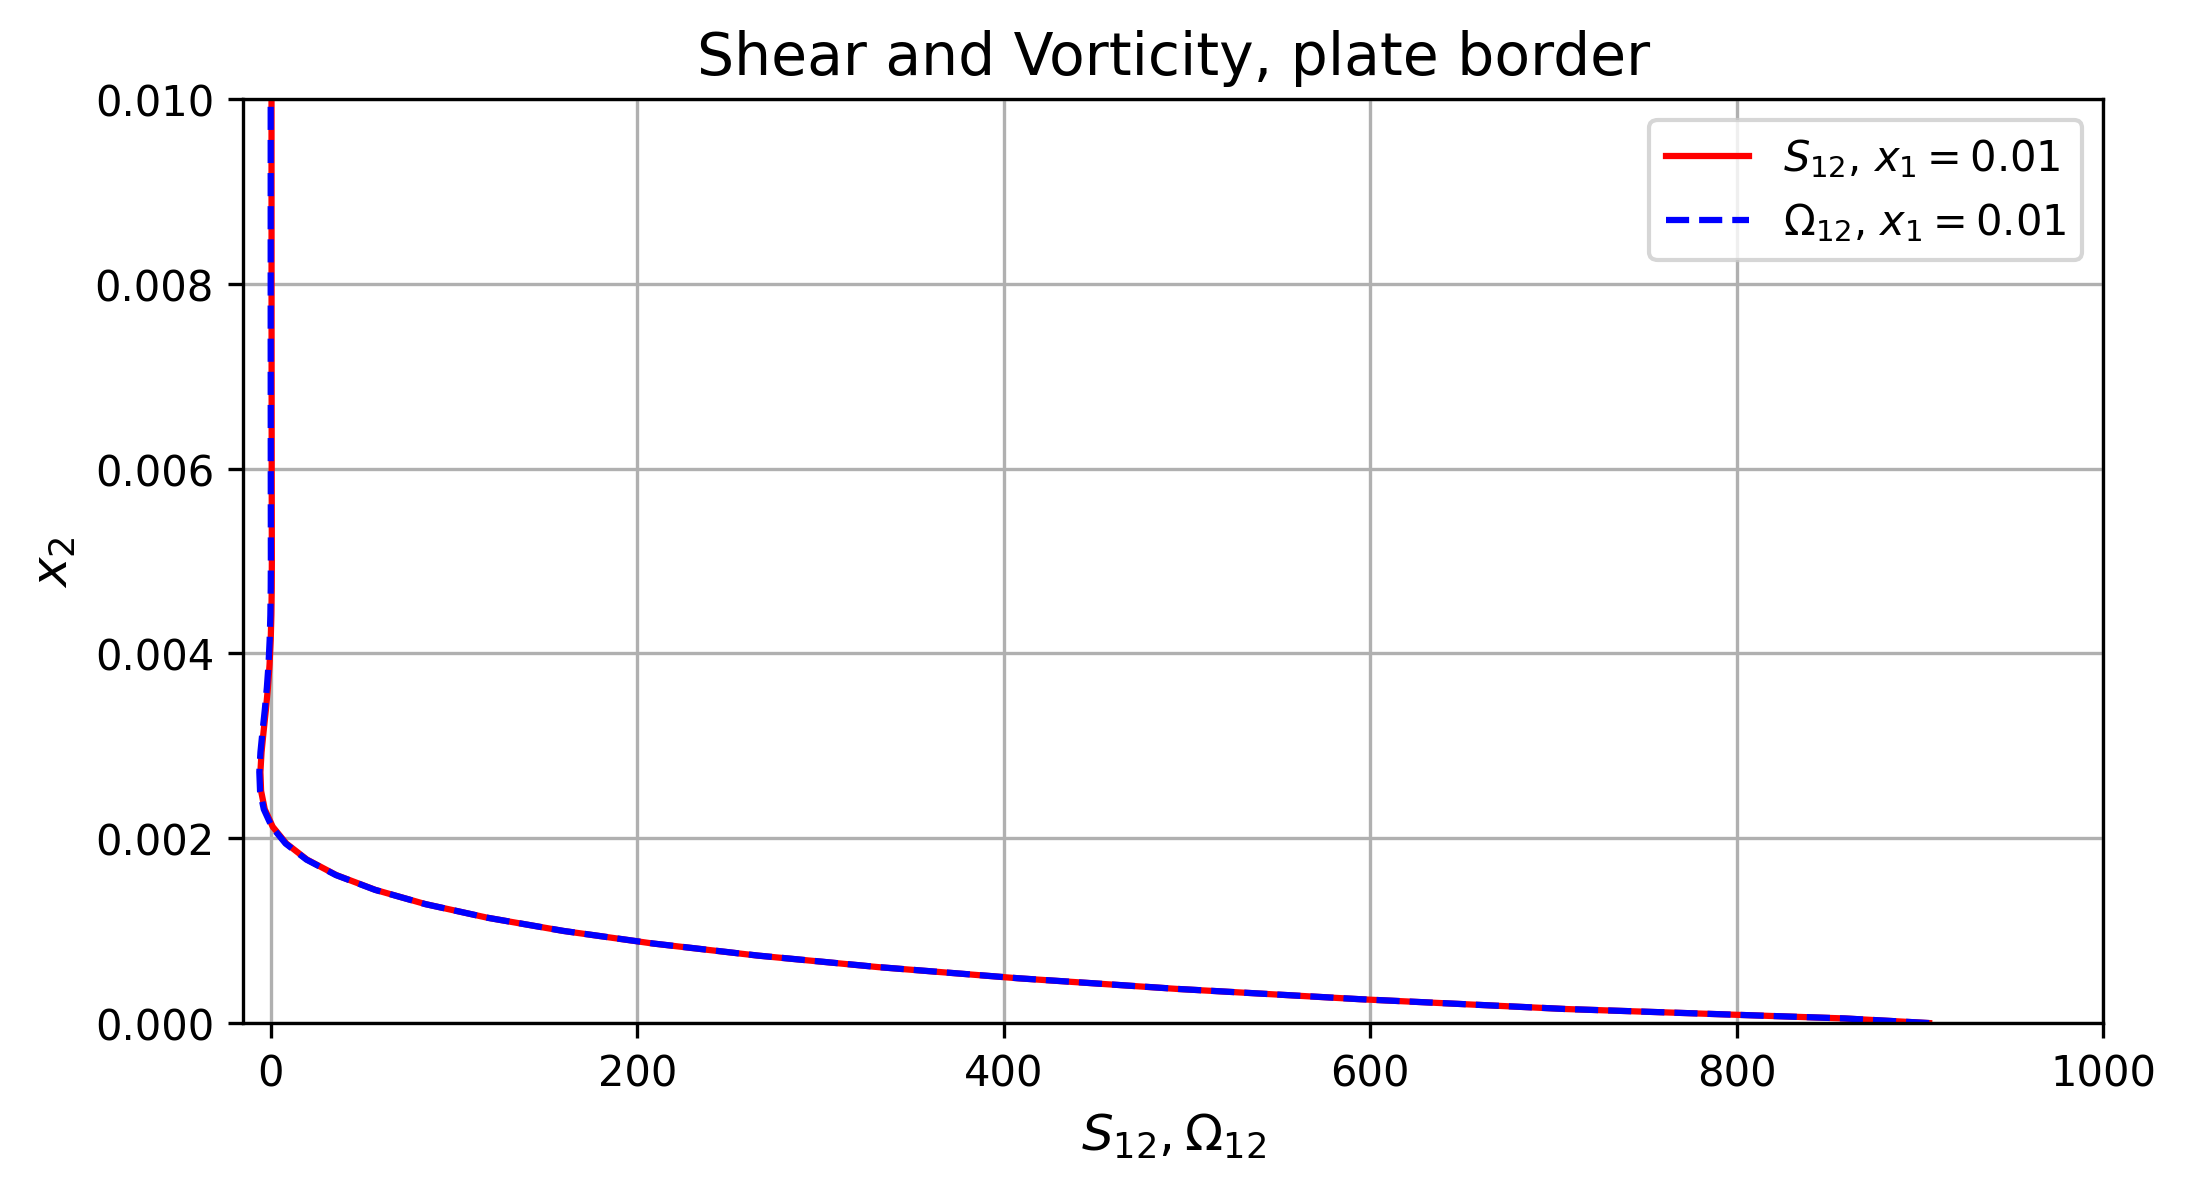
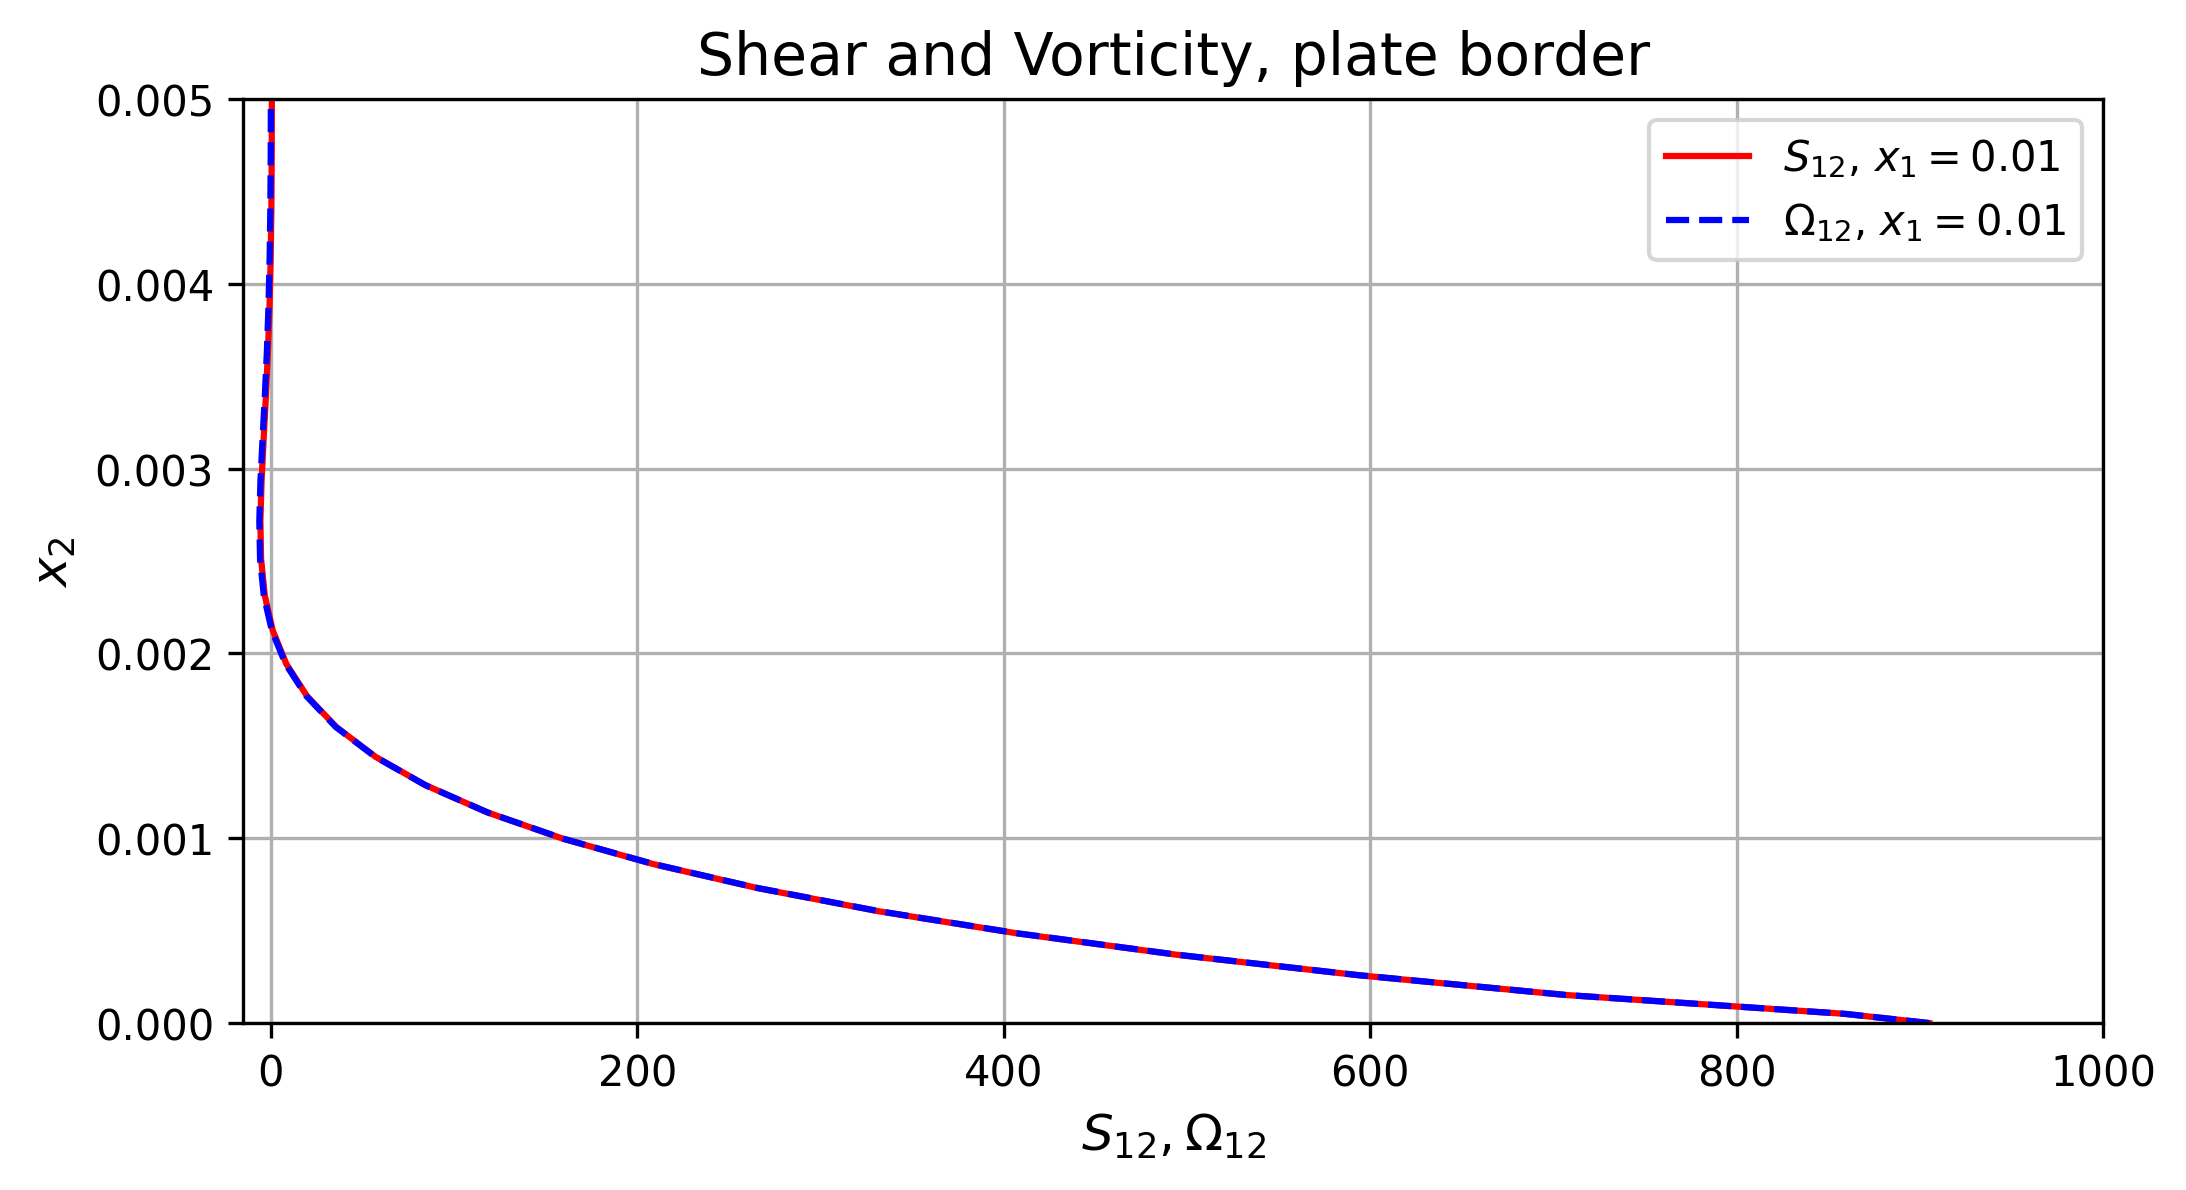
.

diff --git a/TME226/A1 (TME226) - Martin.py b/TME226/A1 (TME226) - Martin.py
@@ -595,6 +595,7 @@ new_prob(6)
 # S12 = 0.5 * (dudy + dvdx)
 # Omega12 = 0.5 * (dudy - dvdx)
 
+# exclude value at corner of the domain
 dudx_cut, dudy_cut=np.gradient(v1_2d[1:,:],xp[1:],yp[:])
 dvdx_cut, dvdy_cut=np.gradient(v2_2d[1:,:],xp[1:],yp[:])
 
@@ -691,7 +692,7 @@ plt.plot(S12[i,:], yp, 'r-', label='$S_{12}$' + fr', $x_1={xc[i]:.2f}$')
 plt.plot(Omega12[i,:], yp, 'b--', label='$\Omega_{12}$' + fr', $x_1={xc[i]:.2f}$')
 
 plt.title(fr'Shear and Vorticity, plate border')
-plt.axis([-15,1000,0,0.01])
+plt.axis([-15,1000,0,0.005])
 plt.xlabel('$S_{12}, \\Omega_{12}$')
 plt.ylabel('$x_2$')
 plt.legend()
